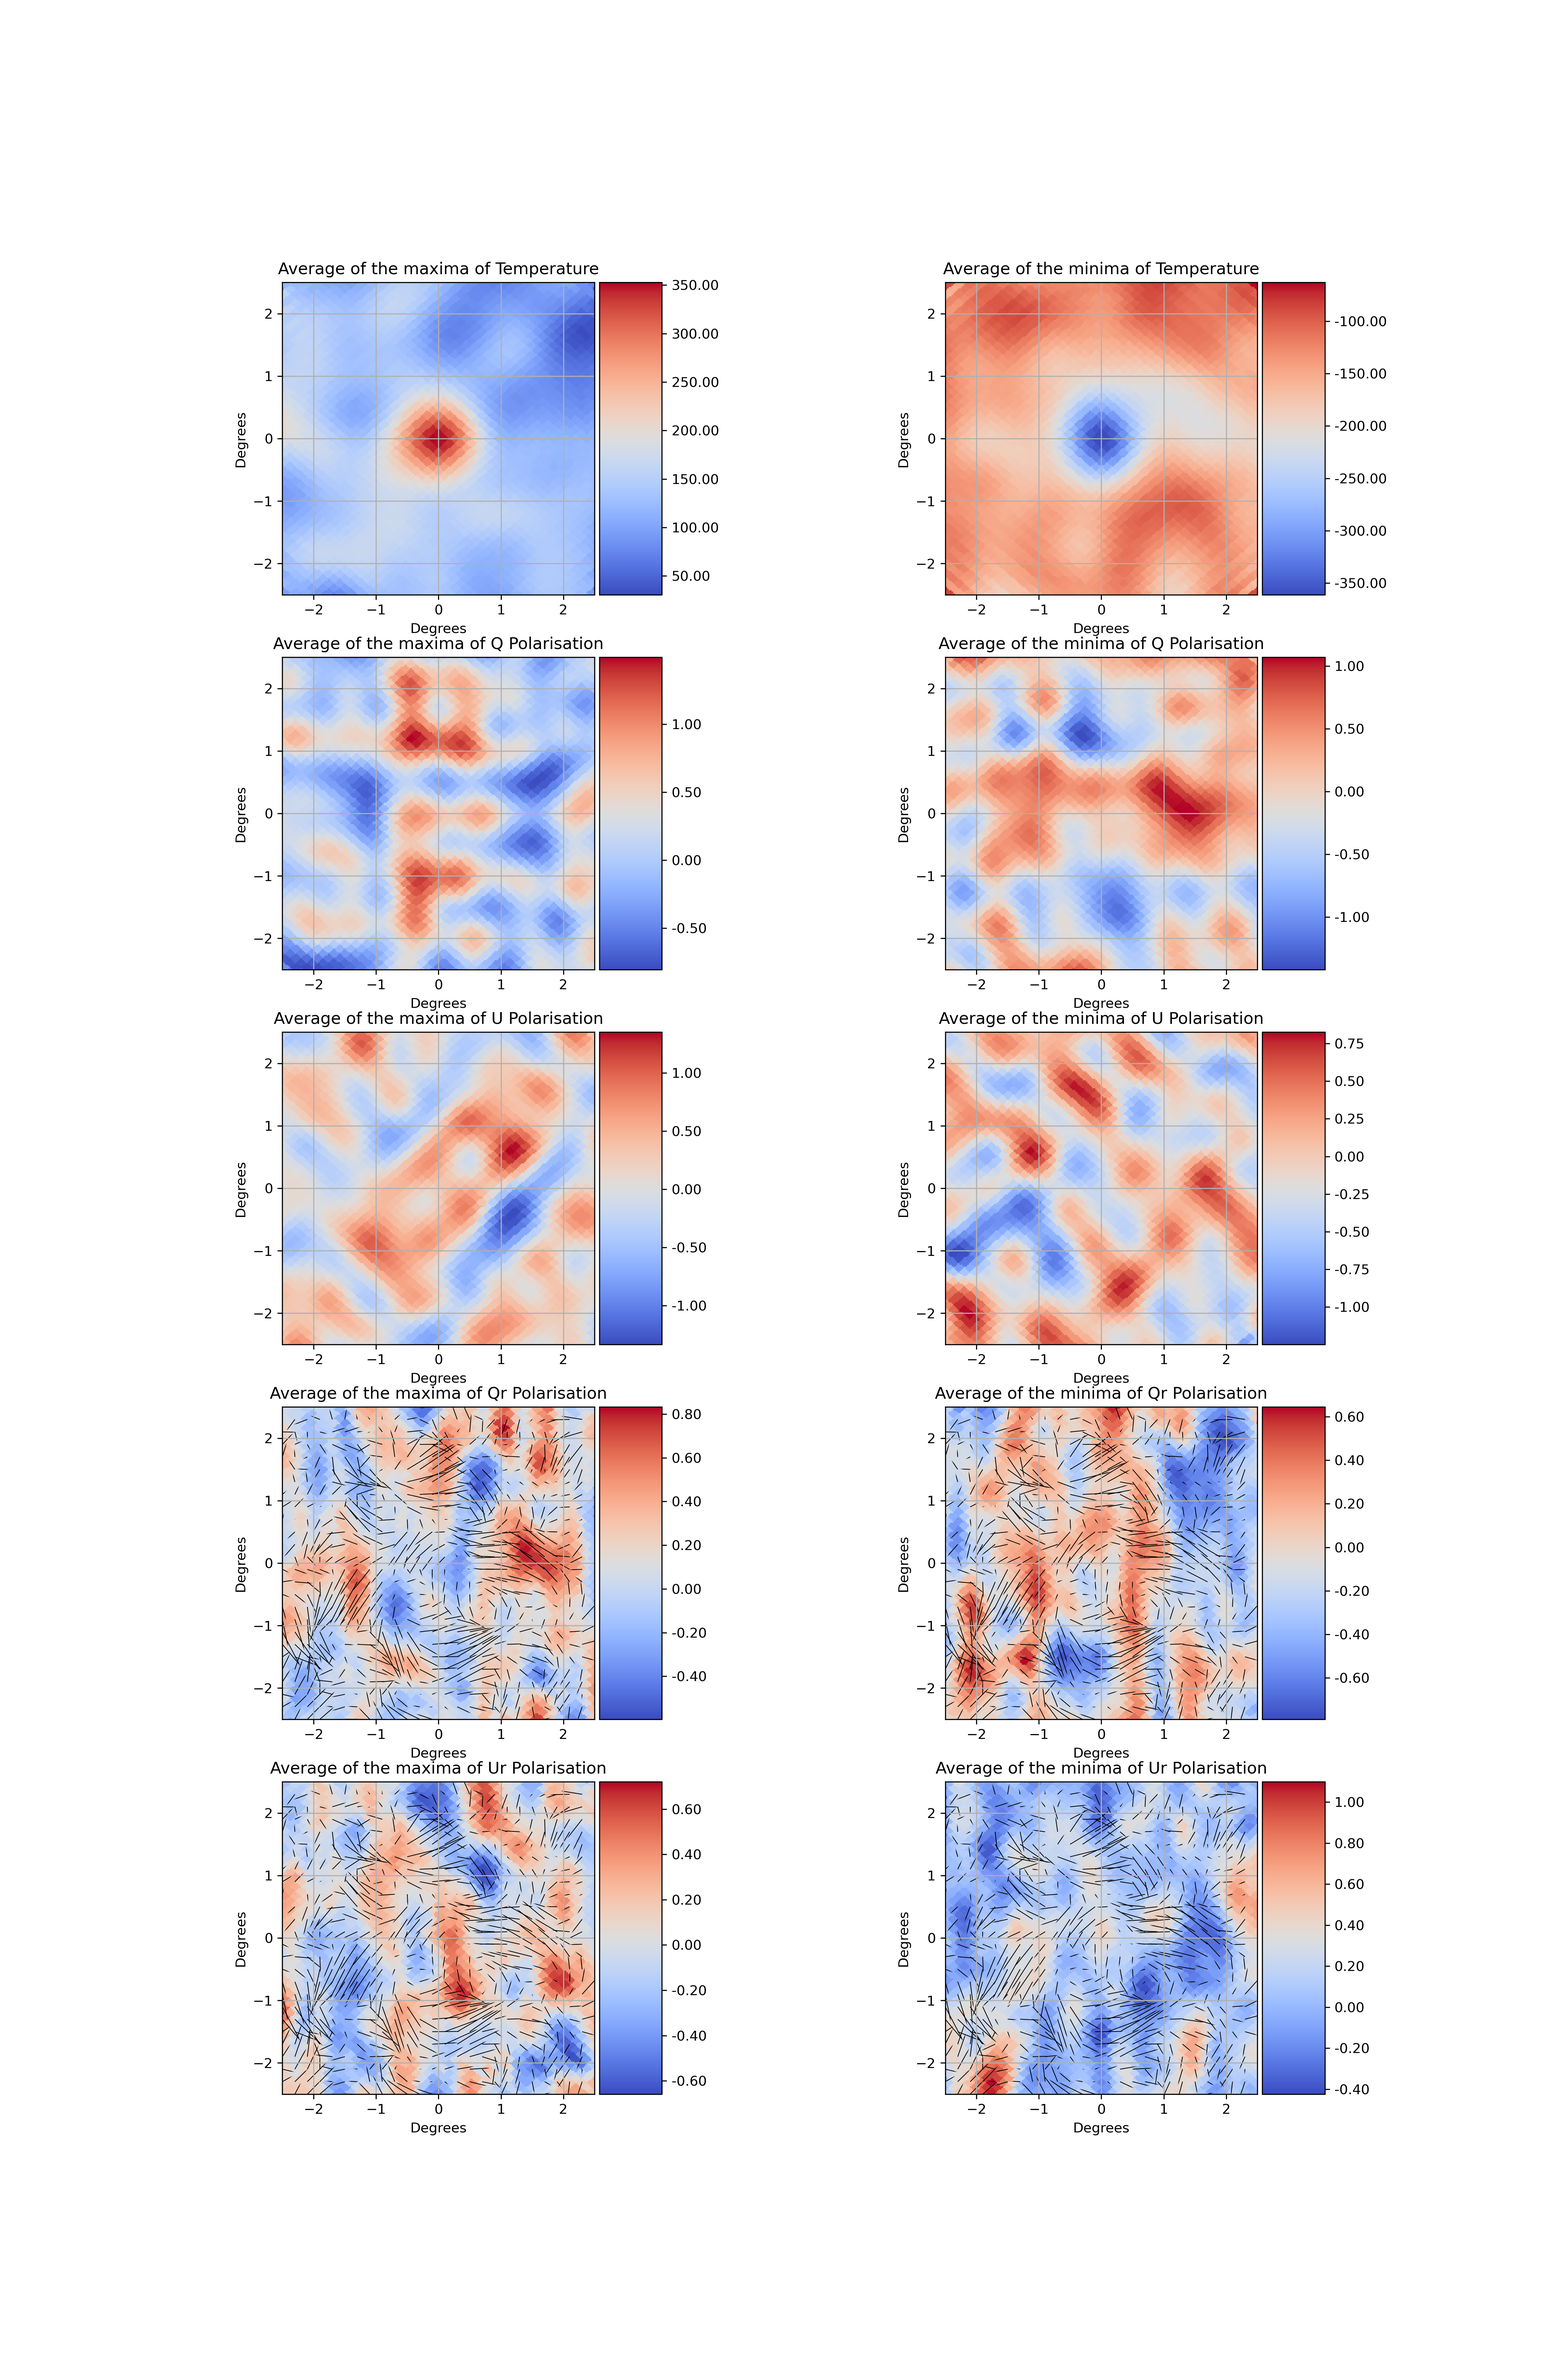
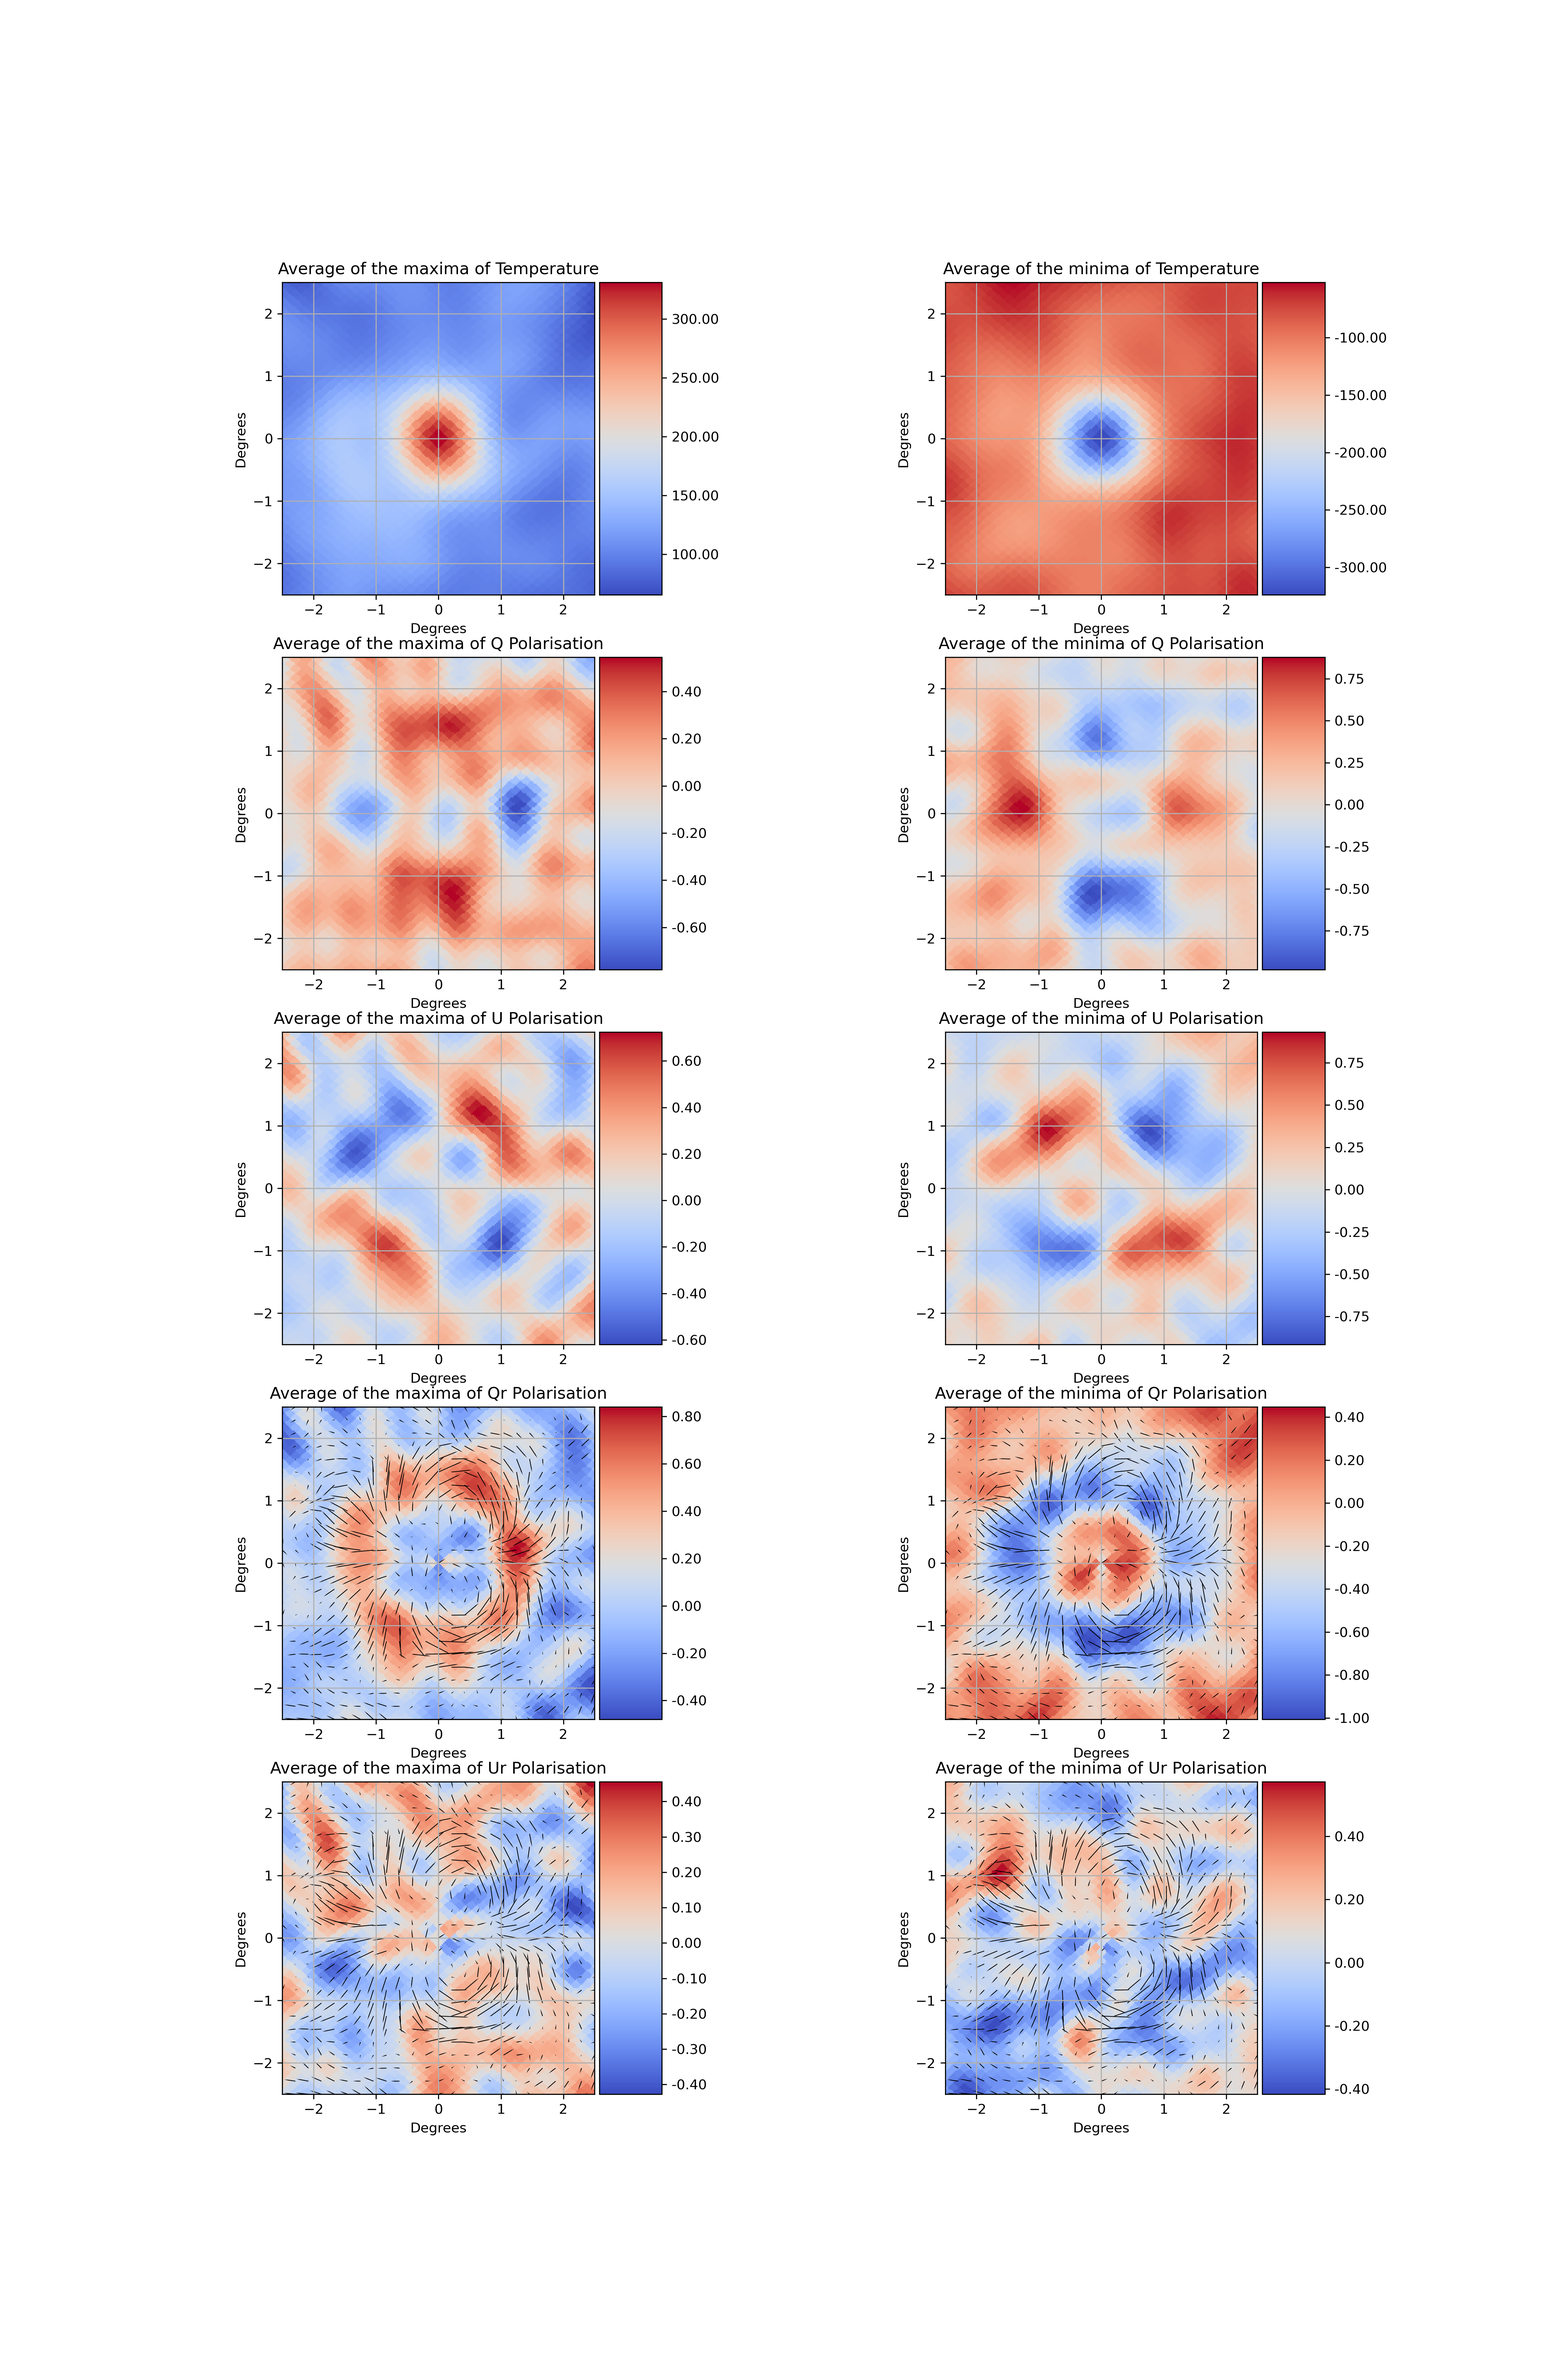
pre run

diff --git a/CMB/average_finder.py b/CMB/average_finder.py
@@ -11,6 +11,9 @@ import time
 from matplotlib import pyplot as plt
 from mpl_toolkits.axes_grid1 import make_axes_locatable
 
+# number of cpu cores to use
+cpu = 10
+
 # Functions needed for stacking
 
 
@@ -35,14 +38,11 @@ def pol_vec(Q, U):
 
 # Function to create inputs for vector map
 def vectormap(step, Q, U):
-    sample_row = np.arange(0, 200, step)
-    sample_col = np.arange(0, 200, step)
-    phi, P = pol_vec(
-        Q[np.ix_(sample_row, sample_col)],
-        U[np.ix_(sample_row, sample_col)],
-    )
+    sample_indices = np.ix_(np.arange(0, 200, step), np.arange(0, 200, step))
+    phi, P = pol_vec(Q[sample_indices], U[sample_indices])
     x, y = np.meshgrid(
-        np.arange(-2.5, 2.5, step / 200 * 5), np.arange(-2.5, 2.5, step / 200 * 5)
+        np.linspace(-2.5, 2.5, Q.shape[1] // step),
+        np.linspace(-2.5, 2.5, Q.shape[0] // step),
     )
     u = -P * np.cos(2 * phi)
     v = P * np.sin(2 * phi)
@@ -88,18 +88,19 @@ def plot_param(ax, im_data, x, y, u, v, params, minmax, quiver_params=None):
 # Function to compute data for one peak with an index
 def process_peak(smooth_map, index, minmax, j, nside):
     lon, lat = hp.pix2ang(nside, index[minmax, j], lonlat=True)
+    # rotate data to be centred on the peak
     rot = hp.Rotator(rot=[lon, lat], deg=True)
     cmap = rot.rotate_map_alms(smooth_map)
-    neigh = hp.query_disc(512, np.array([1, 0, 0]), np.radians(np.sqrt(2 * 2.5**2)))
+    # find the neighbours around the peak (vector = (1,0,0))
+    neigh = hp.query_disc(nside, np.array([1, 0, 0]), np.radians(np.sqrt(2 * 2.5**2)))
     neigh_lon, neigh_lat = hp.pix2ang(nside, neigh, lonlat=True)
+    # compute phi noting longitude goes from 0 to 360
     phi = np.arctan2(neigh_lat, np.where(neigh_lon < 180, neigh_lon, neigh_lon - 360))
-    empty_original = np.zeros((3, hp.nside2npix(nside)))
+
     pol_map = np.zeros((2, hp.nside2npix(nside)))
-    # made map of only the neighbours of peak in original coordinates
-    for pindx in range(3):
-        empty_original[pindx, neigh] = smooth_map[pindx, neigh]
     pol_map[0, neigh] = Qr(cmap[1, neigh], cmap[2, neigh], phi)
     pol_map[1, neigh] = Ur(cmap[1, neigh], cmap[2, neigh], phi)
+    # made map of only the neighbours of peak in original coordinates
     result = np.zeros((5, 200, 200))
     for pindx in range(5):
         if pindx < 3:
@@ -109,16 +110,9 @@ def process_peak(smooth_map, index, minmax, j, nside):
                 return_projected_map=True,
                 no_plot=True,
             )
-        elif pindx == 3:
-            gnom_map = hp.gnomview(
-                pol_map[0, :],
-                reso=5 * 60 / 200,
-                return_projected_map=True,
-                no_plot=True,
-            )
         else:
             gnom_map = hp.gnomview(
-                pol_map[1, :],
+                pol_map[pindx - 3, :],
                 reso=5 * 60 / 200,
                 return_projected_map=True,
                 no_plot=True,
@@ -157,7 +151,7 @@ def stack_cmb_params(no_spots, lensing=True, nside=512):
 
     mp.set_start_method("spawn", force=True)
     with parallel_backend("loky"):
-        results = Parallel(n_jobs=10, timeout=600)(
+        results = Parallel(n_jobs=cpu, timeout=600)(
             delayed(process_peak)(smooth, index, minmax, j, nside)
             for minmax in range(2)
             for j in range(no_spots)
@@ -171,22 +165,22 @@ def stack_cmb_params(no_spots, lensing=True, nside=512):
 # Run function
 peaks = 500
 
-start_time = time.time()
-lensed = stack_cmb_params(peaks, lensing=True)
-end_time = time.time()
-print(f"Runtime for lensed stack: {end_time - start_time} seconds")
-
 # start_time = time.time()
-# nolens = stack_cmb_params(peaks, lensing=False)
+# lensed = stack_cmb_params(peaks, lensing=True)
 # end_time = time.time()
-# print(f"Runtime for nolens stack: {end_time - start_time} seconds")
+# print(f"Runtime for lensed stack: {end_time - start_time} seconds")
+
+start_time = time.time()
+nolens = stack_cmb_params(peaks, lensing=False)
+end_time = time.time()
+print(f"Runtime for nolens stack: {end_time - start_time} seconds")
 
 step = 8
-x_dict, y_dict, ul_dict, vl_dict = compute_vectormaps(lensed, step)
-# x_dict, y_dict, un_dict, vn_dict = compute_vectormaps(nolens, step)
+# x_dict, y_dict, ul_dict, vl_dict = compute_vectormaps(lensed, step)
+x_dict, y_dict, un_dict, vn_dict = compute_vectormaps(nolens, step)
 
-figl, axl = plt.subplots(5, 2, figsize=(16, 24), dpi=300)
-# fign, axn = plt.subplots(5, 2, figsize=(16, 24), dpi=300)
+# figl, axl = plt.subplots(5, 2, figsize=(16, 24), dpi=300)
+fign, axn = plt.subplots(5, 2, figsize=(16, 24), dpi=300)
 
 for minmax in range(2):
     for params, name in zip(
@@ -206,19 +200,6 @@ for minmax in range(2):
             quiver_params = "U"
 
         plot_param(
-            axl[params, minmax],
-            lensed[minmax, params, :, :],
-            x_dict[minmax],
-            y_dict[minmax],
-            ul_dict.get(quiver_params, None),
-            vl_dict.get(quiver_params, None),
-            name,
-            minmax,
-            quiver_params,
-        )
-
-""""
-        plot_param(
             axn[params, minmax],
             nolens[minmax, params, :, :],
             x_dict[minmax],
@@ -230,8 +211,21 @@ for minmax in range(2):
             quiver_params,
         )
         """
+        plot_param(
+            axl[params, minmax],
+            lensed[minmax, params, :, :],
+            x_dict[minmax],
+            y_dict[minmax],
+            ul_dict.get(quiver_params, None),
+            vl_dict.get(quiver_params, None),
+            name,
+            minmax,
+            quiver_params,
+        )
+        """
 
-figl.savefig("Output/Lensed_Average.png")
-# fign.savefig("Output/Nolensed_Average.png")
+
+# figl.savefig("Output/Lensed_Average.png")
+fign.savefig("Output/Nolensed_Average.png")
 
 plt.show()
